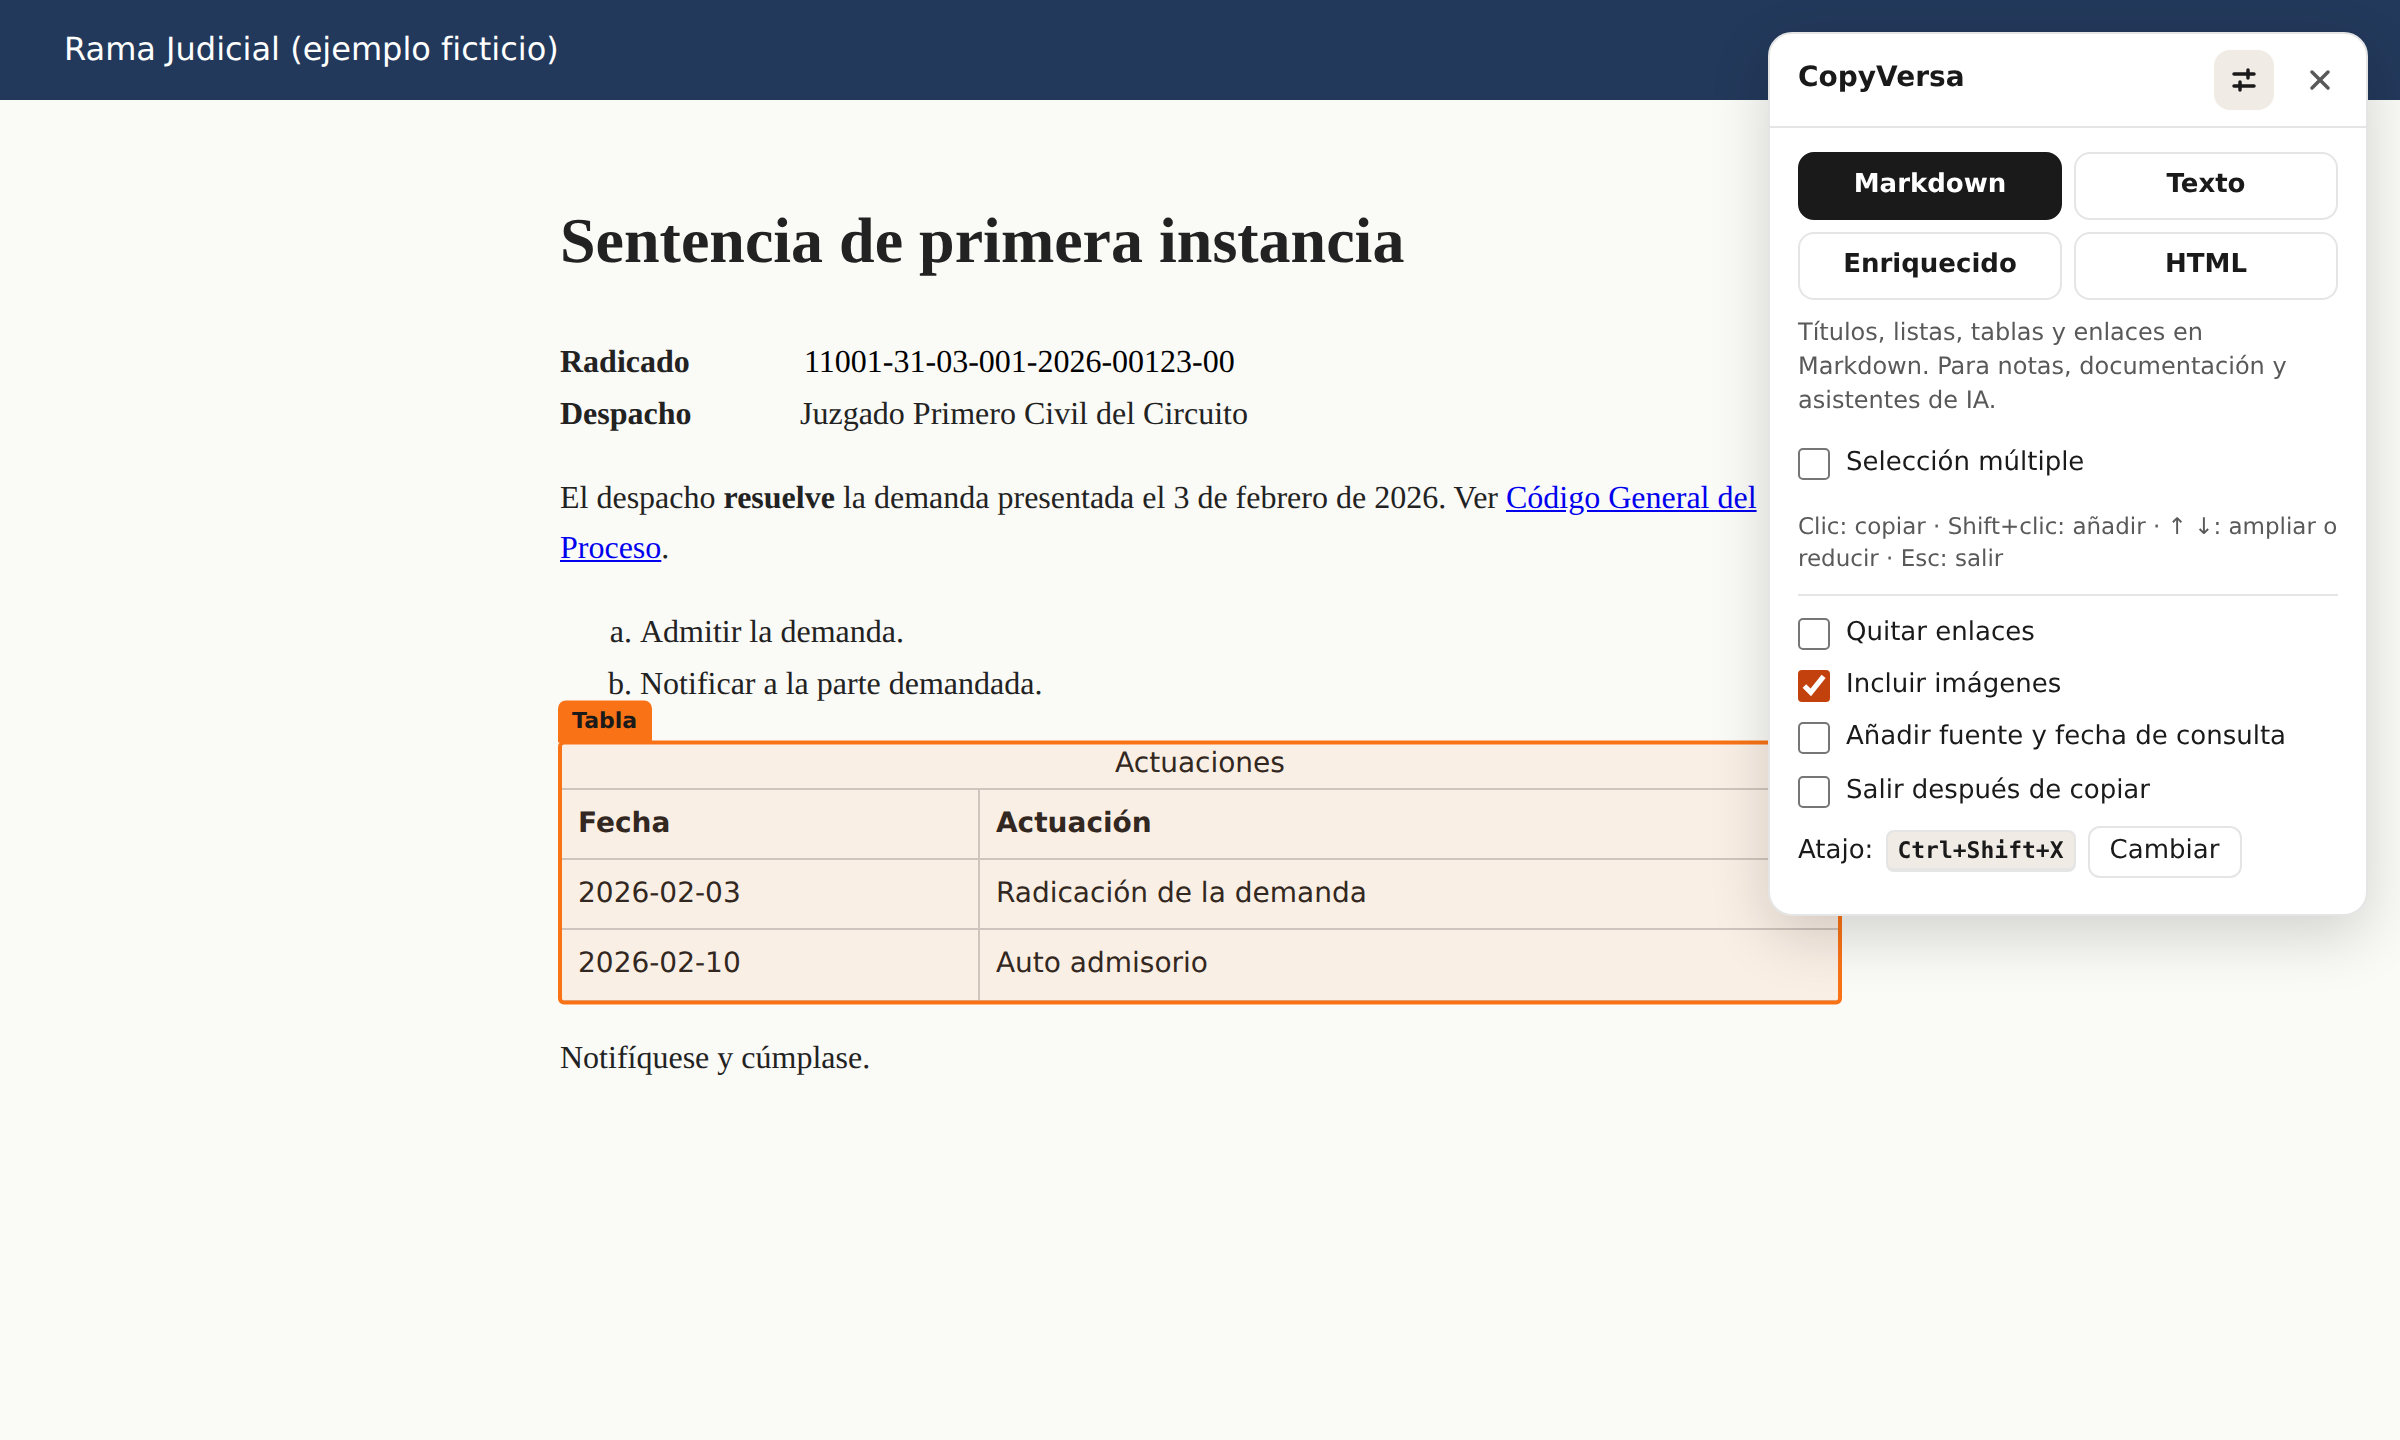
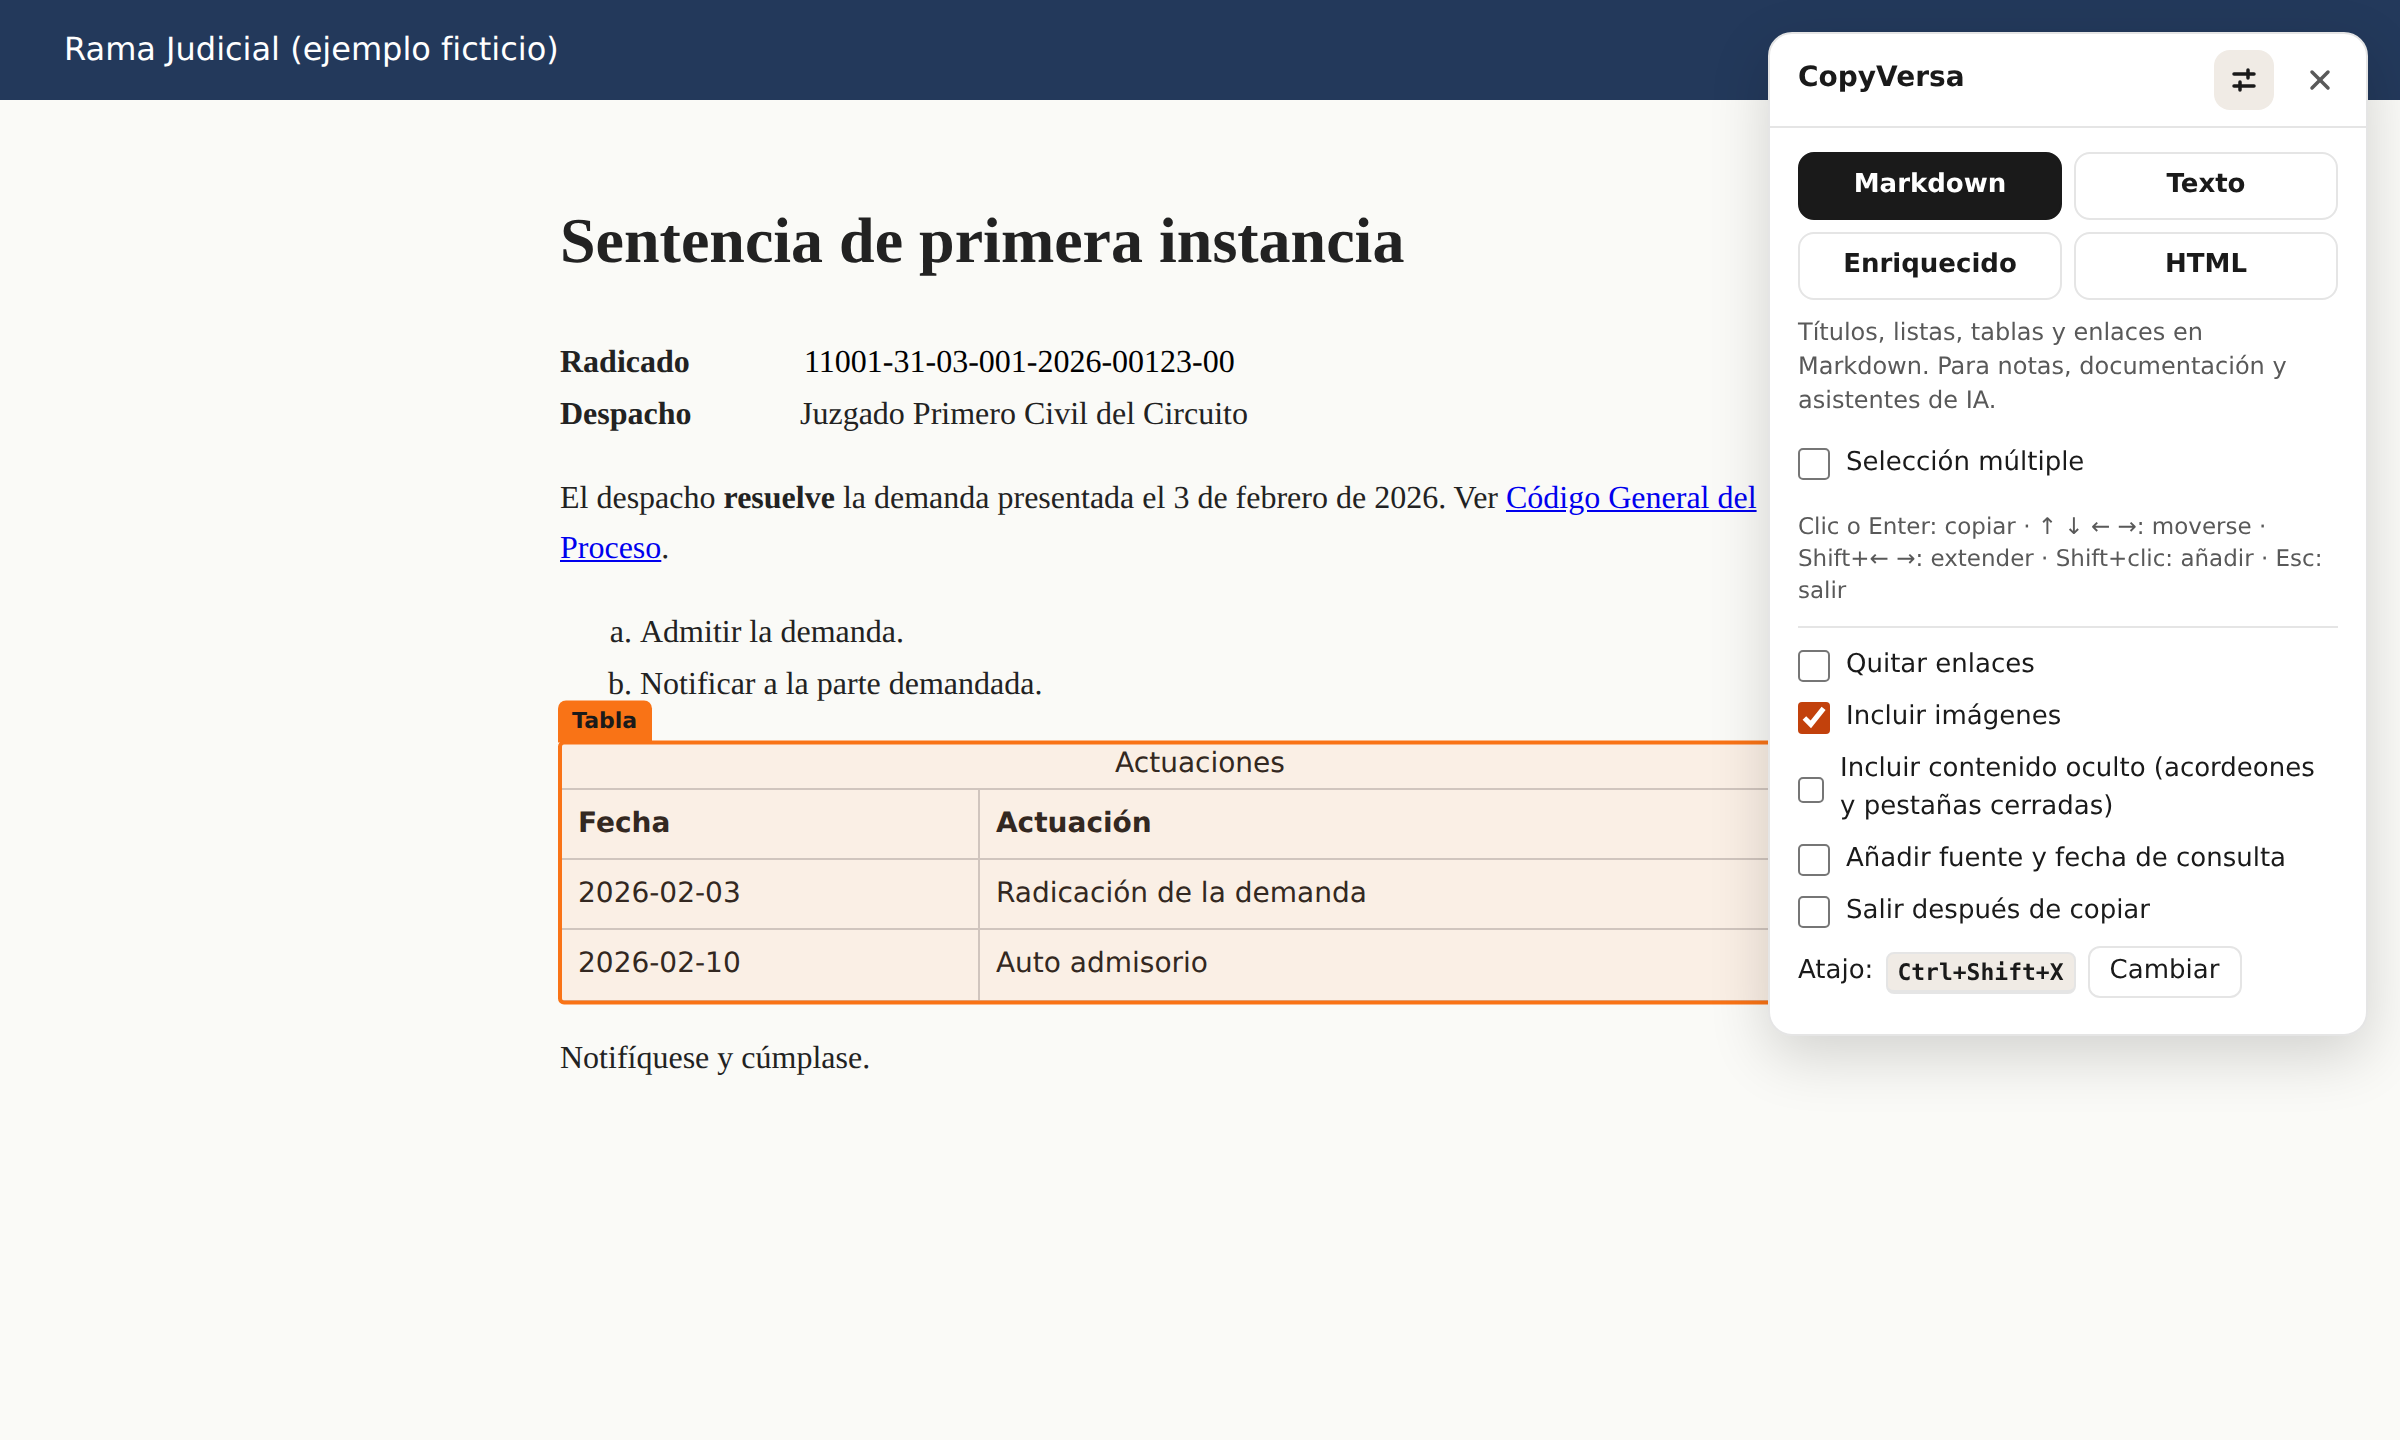
chore(release): prepare v4.1.0

Changed region(s): [[0.7188, 0.3438, 1.0, 0.75]]

diff --git a/README.md b/README.md
@@ -61,13 +61,17 @@ La extensión solo accede a la pestaña en la que la activas, en el momento en q
 2. Mueve el ratón: un recuadro naranja muestra qué bloque se copiará.
 3. Haz clic para copiar.
 
-| Acción                | Resultado                                                    |
-| --------------------- | ------------------------------------------------------------ |
-| Clic                  | Copia el bloque resaltado                                    |
-| Flecha arriba / abajo | Amplía el recuadro al bloque que lo contiene, o vuelve atrás |
-| Enter                 | Copia el bloque resaltado, o todos los elegidos              |
-| Shift + clic          | Añade o quita un bloque de la selección múltiple             |
-| Esc                   | Sale sin copiar                                              |
+| Acción                     | Resultado                                                         |
+| -------------------------- | ----------------------------------------------------------------- |
+| Clic o Enter               | Copia lo resaltado                                                |
+| Flecha arriba              | Amplía el recuadro al bloque que lo contiene                      |
+| Flecha abajo               | Vuelve atrás, o entra al primer bloque de adentro                 |
+| Flecha izquierda / derecha | Pasa al bloque anterior o siguiente del mismo nivel               |
+| Shift + flecha izq. / der. | Extiende el recuadro a los bloques vecinos, por ejemplo artículos |
+| Shift + clic               | Añade o quita un bloque de la selección múltiple                  |
+| Esc                        | Sale sin copiar                                                   |
+
+**Varios artículos seguidos.** Señala el primero, pulsa Shift + flecha derecha hasta el último y pulsa Enter. CopyVersa copia todo el tramo de corrido, incluido lo que haya entre los bloques, como notas de vigencia.
 
 **Atajo con texto seleccionado.** Si seleccionas texto con el ratón y pulsas el atajo, CopyVersa copia esa selección de inmediato en el formato elegido.
 

diff --git a/README.en.md b/README.en.md
@@ -36,13 +36,17 @@ With CopyVersa, you point at a block of the page, click, and the content lands o
 
 Press **Ctrl+Shift+X** (**Cmd+Shift+X** on Mac with the extension), move the mouse and click.
 
-| Action          | Result                                            |
-| --------------- | ------------------------------------------------- |
-| Click           | Copy the highlighted block                        |
-| Arrow up / down | Expand to the enclosing block, or go back         |
-| Enter           | Copy the highlighted block, or all selected ones  |
-| Shift + click   | Add or remove a block from the multiple selection |
-| Esc             | Exit without copying                              |
+| Action                   | Result                                                       |
+| ------------------------ | ------------------------------------------------------------ |
+| Click or Enter           | Copy what is highlighted                                     |
+| Arrow up                 | Expand to the enclosing block                                |
+| Arrow down               | Go back, or enter the first block inside                     |
+| Arrow left / right       | Move to the previous or next block on the same level         |
+| Shift + arrow left/right | Extend the highlight to neighboring blocks, such as articles |
+| Shift + click            | Add or remove a block from the multiple selection            |
+| Esc                      | Exit without copying                                         |
+
+A run of blocks picked with Shift + arrows is copied in one piece, including anything between them.
 
 If text is already selected when you press the shortcut, CopyVersa copies that selection right away.
 

diff --git a/CHANGELOG.md b/CHANGELOG.md
@@ -4,6 +4,14 @@ Este archivo sigue el formato de [Keep a Changelog](https://keepachangelog.com/e
 
 ## [Sin publicar]
 
+## [4.1.0] - 2026-10-22
+
+### Añadido
+
+- Flechas izquierda y derecha para pasar al bloque anterior o siguiente del mismo nivel, saltando enlaces vacíos y elementos ocultos.
+- Shift + flechas izquierda y derecha para extender el recuadro a varios bloques vecinos, como una serie de artículos. El tramo se copia de corrido, con lo que haya entre los bloques.
+- Flecha abajo entra al primer bloque de adentro cuando no hay un paso que deshacer.
+
 ## [4.0.1] - 2026-10-22
 
 ### Corregido
@@ -54,6 +62,7 @@ Este archivo sigue el formato de [Keep a Changelog](https://keepachangelog.com/e
 
 Userscript distribuido fuera de este repositorio. Copiaba elementos como Markdown, Markdown de GitHub o HTML.
 
-[Sin publicar]: https://github.com/oddradiocircle/Copyversa/compare/v4.0.1...HEAD
+[Sin publicar]: https://github.com/oddradiocircle/Copyversa/compare/v4.1.0...HEAD
+[4.1.0]: https://github.com/oddradiocircle/Copyversa/compare/v4.0.1...v4.1.0
 [4.0.1]: https://github.com/oddradiocircle/Copyversa/compare/v4.0.0...v4.0.1
 [4.0.0]: https://github.com/oddradiocircle/Copyversa/releases/tag/v4.0.0
